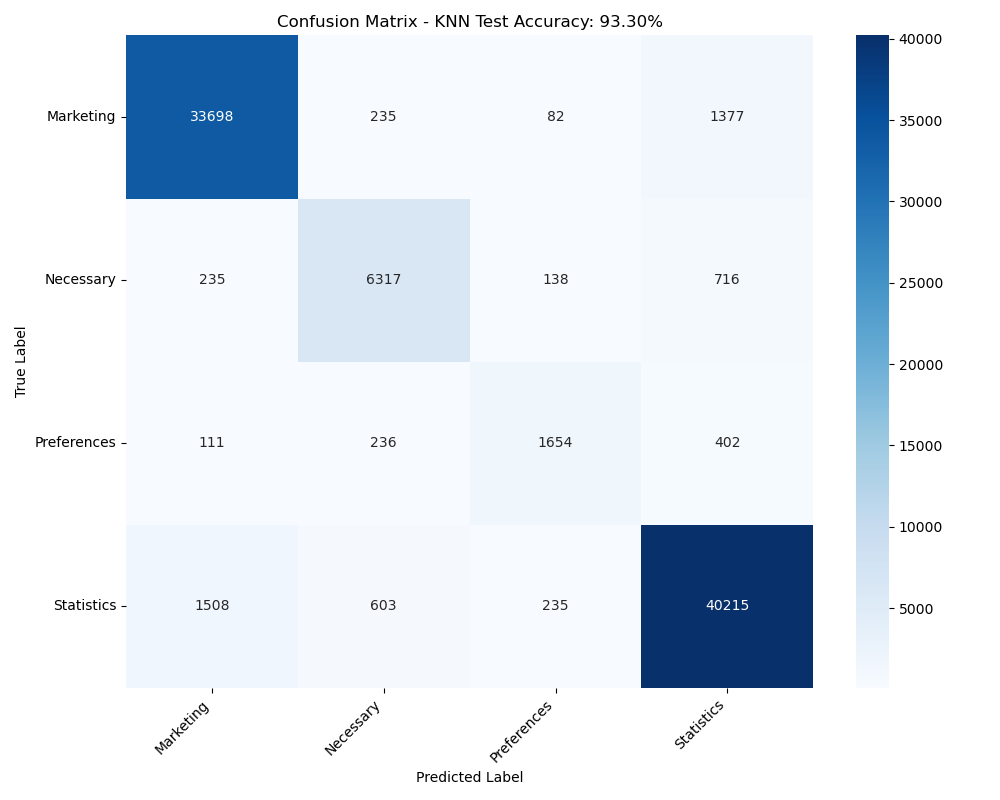
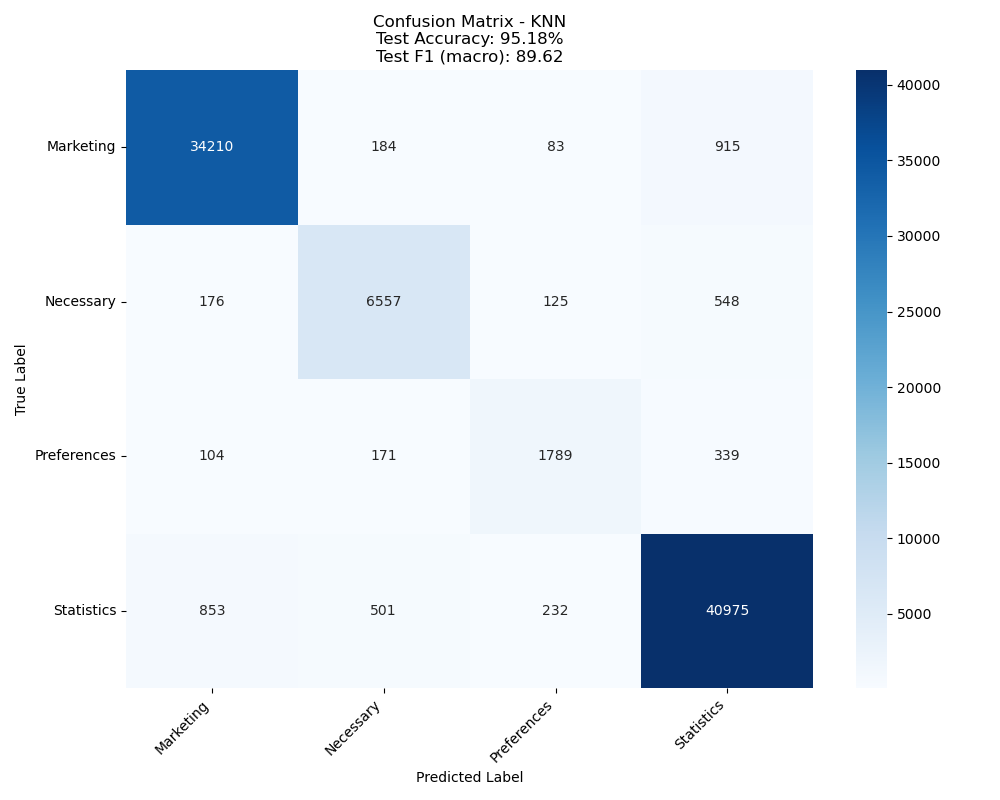
maximized knn accuracy and implemented f1 score

diff --git a/cookie_classifier.py b/cookie_classifier.py
@@ -1,7 +1,7 @@
 import pandas as pd, matplotlib.pyplot as plt, seaborn as sns, numpy as np, lightgbm as lgb, xgboost as xgb, catboost
 from sklearn.model_selection import train_test_split, StratifiedKFold
 from sklearn.neighbors import KNeighborsClassifier, NearestCentroid
-from sklearn.metrics import accuracy_score, confusion_matrix
+from sklearn.metrics import accuracy_score, confusion_matrix, f1_score
 from sklearn.preprocessing import LabelEncoder
 from sklearn.linear_model import LogisticRegression, SGDClassifier, Perceptron, RidgeClassifier, RidgeClassifierCV
 from sklearn.ensemble import RandomForestClassifier, AdaBoostClassifier, StackingClassifier, VotingClassifier
@@ -17,6 +17,8 @@ from sklearn.feature_selection import SelectKBest, chi2, mutual_info_classif
 from sklearn.decomposition import TruncatedSVD
 from sklearn.preprocessing import Normalizer
 from scipy.sparse import hstack
+
+# hasing pe date
 
 
 rows = []
@@ -98,11 +100,19 @@ print("TF-IDF shape:", X_train_encoded.shape)
 
 print(X_train_encoded.dtype)
 
-def evaluate_model(model_name, y_true, y_pred, train_pred):
+def evaluate_model(model_name, y_true, y_pred, train_pred, include_f1=True, f1_average="macro"):
     train_acc = accuracy_score(y_train, train_pred)
     test_acc = accuracy_score(y_true, y_pred)
     print(f"\n{model_name} Training Accuracy: {train_acc*100:.2f}%")
     print(f"{model_name} Test Accuracy: {test_acc*100:.2f}%")
+
+    train_f1 = None
+    test_f1 = None
+    if include_f1:
+        train_f1 = f1_score(y_train, train_pred, average=f1_average, zero_division=0)
+        test_f1 = f1_score(y_true, y_pred, average=f1_average, zero_division=0)
+        print(f"{model_name} Training F1 ({f1_average}): {train_f1*100:.2f}")
+        print(f"{model_name} Test F1 ({f1_average}): {test_f1*100:.2f}")
 
     print(f"\nUnique categories in test set: {sorted(y_true.unique())}")
     print("Test set category distribution:")
@@ -127,7 +137,14 @@ def evaluate_model(model_name, y_true, y_pred, train_pred):
     sns.heatmap(conf_matrix, annot=True, fmt='d', cmap='Blues', xticklabels=categories, yticklabels=categories)
     plt.xlabel('Predicted Label')
     plt.ylabel('True Label')
-    plt.title(f'Confusion Matrix - {model_name} Test Accuracy: {test_acc*100:.2f}%')
+    if include_f1 and test_f1 is not None:
+        plt.title(
+            f"Confusion Matrix - {model_name}\n"
+            f"Test Accuracy: {test_acc*100:.2f}%\n"
+            f"Test F1 ({f1_average}): {test_f1*100:.2f}"
+        )
+    else:
+        plt.title(f'Confusion Matrix - {model_name} Test Accuracy: {test_acc*100:.2f}%')
     plt.xticks(rotation=45, ha='right')
     plt.yticks(rotation=0)
     plt.tight_layout()
@@ -140,36 +157,42 @@ def evaluate_model(model_name, y_true, y_pred, train_pred):
     
     # plt.show()
 
-# print("\n" + "="*80)
-# print("KNN")
-# print("="*80)
+print("\n" + "="*80)
+print("KNN")
+print("="*80)
 
-# # 93.30%
+# 95.18%
 
-# svd = TruncatedSVD(n_components=16, random_state=42)
-# X_train_reduced = svd.fit_transform(X_train_encoded)
-# X_test_reduced = svd.transform(X_test_encoded)
+svd = TruncatedSVD(n_components=128, random_state=42)
+X_train_reduced = svd.fit_transform(X_train_encoded)
+X_test_reduced = svd.transform(X_test_encoded)
 
-# # Normalize so cosine = dot product
+# Normalize so cosine = dot product
 
-# normalizer = Normalizer(copy=False)
-# X_train_reduced = normalizer.fit_transform(X_train_reduced)
-# X_test_reduced = normalizer.transform(X_test_reduced)
+normalizer = Normalizer(copy=False)
+X_train_reduced = normalizer.fit_transform(X_train_reduced)
+X_test_reduced = normalizer.transform(X_test_reduced)
 
-# knn = KNeighborsClassifier(
-#     n_neighbors=7,            
-#     weights='distance',
-#     metric='euclidean',       # after normalization == cosine
-#     algorithm='auto',
-#     n_jobs=-1
-# )
+def custom_weights(distances):
+    return (1 / (distances + 1e-5) ** 2.2) * np.exp(-distances)
 
-# knn.fit(X_train_reduced, y_train)
+# 91.67%
 
-# model_train_knn_preds = knn.predict(X_train_reduced)
-# test_knn_preds = knn.predict(X_test_reduced)
+knn = KNeighborsClassifier(
+    n_neighbors=7,            
+    weights=custom_weights,
+    metric='euclidean',       # after normalization == cosine
+    algorithm='auto',
+    n_jobs=-1
+)
 
-# evaluate_model("KNN", y_test, test_knn_preds, model_train_knn_preds)
+
+knn.fit(X_train_reduced, y_train)
+
+model_train_knn_preds = knn.predict(X_train_reduced)
+test_knn_preds = knn.predict(X_test_reduced)
+
+evaluate_model("KNN", y_test, test_knn_preds, model_train_knn_preds)
 
 
 # print("\n" + "="*80)
@@ -418,25 +441,34 @@ print("\n" + "="*80)
 print("TRYING: Ada Boost Classifier")
 print("="*80)
 
-svd_ada = TruncatedSVD(n_components=6, random_state=42)
+svd_ada = TruncatedSVD(n_components=64, random_state=42)
+
 X_train_ada = svd_ada.fit_transform(X_train_encoded)
 X_test_ada = svd_ada.transform(X_test_encoded)
 
+class_weights = {
+    'Necessary': 3.0,
+    'Preferences': 6.0,
+    'Statistics': 1.0,
+    'Marketing': 1.0
+}
+
+sample_weights = y_train.map(class_weights).values
+
 ada_base_tree = DecisionTreeClassifier(
-    max_depth=2,
-    min_samples_leaf=10,
-    # class_weight='balanced',
+    max_depth=3,
+    min_samples_leaf=5,
     random_state=0
 )
 
 abc = AdaBoostClassifier(
     estimator=ada_base_tree,
-    n_estimators=100,
-    learning_rate=0.8,
+    n_estimators=150,
+    learning_rate=0.6,
     random_state=0
 )
 
-abc.fit(X_train_ada, y_train)
+abc.fit(X_train_ada, y_train, sample_weight=sample_weights)
 
 abc_train_pred = abc.predict(X_train_ada)
 abc_test_pred = abc.predict(X_test_ada)
